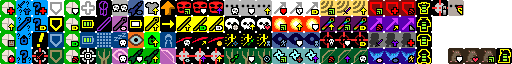
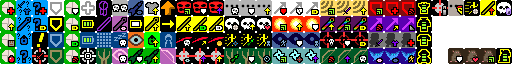
1.2: added additional talents for mage

Changed region(s): [[0.9062, 0.0, 1.0, 0.25]]

diff --git a/core/src/main/java/com/shatteredpixel/shatteredpixeldungeon/items/wands/Wand.java b/core/src/main/java/com/shatteredpixel/shatteredpixeldungeon/items/wands/Wand.java
@@ -23,36 +23,33 @@ package com.shatteredpixel.shatteredpixeldungeon.items.wands;
 
 import com.shatteredpixel.shatteredpixeldungeon.Assets;
 import com.shatteredpixel.shatteredpixeldungeon.Badges;
-import com.shatteredpixel.shatteredpixeldungeon.Dungeon;
 import com.shatteredpixel.shatteredpixeldungeon.actors.Actor;
 import com.shatteredpixel.shatteredpixeldungeon.actors.Char;
-import com.shatteredpixel.shatteredpixeldungeon.actors.buffs.Barrier;
-import com.shatteredpixel.shatteredpixeldungeon.actors.buffs.Buff;
-import com.shatteredpixel.shatteredpixeldungeon.actors.buffs.Invisibility;
-import com.shatteredpixel.shatteredpixeldungeon.actors.buffs.LockedFloor;
-import com.shatteredpixel.shatteredpixeldungeon.actors.buffs.MagicImmune;
-import com.shatteredpixel.shatteredpixeldungeon.actors.buffs.Recharging;
-import com.shatteredpixel.shatteredpixeldungeon.actors.buffs.ScrollEmpower;
-import com.shatteredpixel.shatteredpixeldungeon.actors.buffs.SoulMark;
+import com.shatteredpixel.shatteredpixeldungeon.actors.buffs.*;
 import com.shatteredpixel.shatteredpixeldungeon.actors.hero.Hero;
 import com.shatteredpixel.shatteredpixeldungeon.actors.hero.HeroSubClass;
 import com.shatteredpixel.shatteredpixeldungeon.actors.hero.Talent;
 import com.shatteredpixel.shatteredpixeldungeon.actors.hero.abilities.mage.WildMagic;
 import com.shatteredpixel.shatteredpixeldungeon.effects.MagicMissile;
+import com.shatteredpixel.shatteredpixeldungeon.effects.Speck;
+import com.shatteredpixel.shatteredpixeldungeon.effects.particles.ShadowParticle;
 import com.shatteredpixel.shatteredpixeldungeon.items.Item;
 import com.shatteredpixel.shatteredpixeldungeon.items.artifacts.TalismanOfForesight;
 import com.shatteredpixel.shatteredpixeldungeon.items.bags.Bag;
 import com.shatteredpixel.shatteredpixeldungeon.items.bags.MagicalHolster;
 import com.shatteredpixel.shatteredpixeldungeon.items.rings.RingOfEnergy;
 import com.shatteredpixel.shatteredpixeldungeon.items.scrolls.ScrollOfRecharging;
+import com.shatteredpixel.shatteredpixeldungeon.items.spells.CurseInfusion;
 import com.shatteredpixel.shatteredpixeldungeon.items.weapon.melee.MagesStaff;
 import com.shatteredpixel.shatteredpixeldungeon.mechanics.Ballistica;
 import com.shatteredpixel.shatteredpixeldungeon.messages.Messages;
 import com.shatteredpixel.shatteredpixeldungeon.scenes.CellSelector;
 import com.shatteredpixel.shatteredpixeldungeon.scenes.GameScene;
+import com.shatteredpixel.shatteredpixeldungeon.sprites.CharSprite;
 import com.shatteredpixel.shatteredpixeldungeon.sprites.ItemSprite;
 import com.shatteredpixel.shatteredpixeldungeon.sprites.ItemSpriteSheet;
 import com.shatteredpixel.shatteredpixeldungeon.ui.QuickSlotButton;
+import com.shatteredpixel.shatteredpixeldungeon.ui.TargetHealthIndicator;
 import com.shatteredpixel.shatteredpixeldungeon.utils.GLog;
 import com.watabou.noosa.audio.Sample;
 import com.watabou.utils.Bundle;
@@ -61,6 +58,8 @@ import com.watabou.utils.PointF;
 import com.watabou.utils.Random;
 
 import java.util.ArrayList;
+
+import static com.shatteredpixel.shatteredpixeldungeon.Dungeon.hero;
 
 public abstract class Wand extends Item {
 
@@ -184,13 +183,31 @@ public abstract class Wand extends Item {
 
 	//TODO Consider externalizing char awareness buff
 	protected static void wandProc(Char target, int wandLevel, int chargesUsed){
-		if (Dungeon.hero.hasTalent(Talent.ARCANE_VISION)) {
-			int dur = 5 + 5*Dungeon.hero.pointsInTalent(Talent.ARCANE_VISION);
-			Buff.append(Dungeon.hero, TalismanOfForesight.CharAwareness.class, dur).charID = target.id();
+		if (hero.hasTalent(Talent.ARCANE_VISION)) {
+			int dur = 5 + 5* hero.pointsInTalent(Talent.ARCANE_VISION);
+			Buff.append(hero, TalismanOfForesight.CharAwareness.class, dur).charID = target.id();
 		}
 
-		if (target != Dungeon.hero &&
-				Dungeon.hero.subClass == HeroSubClass.WARLOCK &&
+		if (hero.hasTalent(Talent.BANISHED) && hero.buff(Talent.BanishedCooldown.class) == null){
+			if (!target.properties().contains(Char.Property.BOSS)
+					&& !target.properties().contains(Char.Property.MINIBOSS)
+					&& target.buff(SoulMark.class) != null){
+				target.sprite.emitter().burst(ShadowParticle.UP, 50);
+				Buff.affect(hero, Hunger.class)
+						.affectHunger( target.HP*hero.pointsInTalent(Talent.SOUL_EATER)/6f);
+				hero.HP = (int) Math.ceil(Math.min(hero.HT, hero.HP + target.HP * 0.2f));
+				hero.sprite.emitter().burst(Speck.factory(Speck.HEALING), 1);
+				Sample.INSTANCE.play(Assets.Sounds.DEATH, 1f, 0.75f);
+				target.die(new CurseInfusion());
+				target.sprite.showStatus(CharSprite.NEGATIVE, Messages.get(Wand.class, "banished"));
+				TargetHealthIndicator.instance.target(null);
+				Talent.Cooldown.affectHero(Talent.BanishedCooldown.class);
+				return;
+			}
+		}
+
+		if (target != hero &&
+				hero.subClass == HeroSubClass.WARLOCK &&
 				//standard 1 - 0.92^x chance, plus 7%. Starts at 15%
 				Random.Float() > (Math.pow(0.92f, (wandLevel*chargesUsed)+1) - 0.07f)){
 			SoulMark.prolong(target, SoulMark.class, SoulMark.DURATION + wandLevel);
@@ -251,7 +268,7 @@ public abstract class Wand extends Item {
 			desc += "\n\n" + Messages.get(Wand.class, "not_cursed");
 		}
 
-		if (Dungeon.hero.subClass == HeroSubClass.BATTLEMAGE){
+		if (hero.subClass == HeroSubClass.BATTLEMAGE){
 			desc += "\n\n" + Messages.get(this, "bmage_desc");
 		}
 
@@ -378,10 +395,10 @@ public abstract class Wand extends Item {
 
 	protected void wandUsed() {
 		if (!isIdentified()) {
-			float uses = Math.min( availableUsesToID, Talent.itemIDSpeedFactor(Dungeon.hero, this) );
+			float uses = Math.min( availableUsesToID, Talent.itemIDSpeedFactor(hero, this) );
 			availableUsesToID -= uses;
 			usesLeftToID -= uses;
-			if (usesLeftToID <= 0 || Dungeon.hero.pointsInTalent(Talent.SCHOLARS_INTUITION) == 2) {
+			if (usesLeftToID <= 0 || hero.pointsInTalent(Talent.SCHOLARS_INTUITION) == 2) {
 				identify();
 				GLog.p( Messages.get(Wand.class, "identify") );
 				Badges.validateItemLevelAquired( this );
@@ -407,14 +424,14 @@ public abstract class Wand extends Item {
 
 		//if the wand is owned by the hero, but not in their inventory, it must be in the staff
 		if (charger != null
-				&& charger.target == Dungeon.hero
-				&& !Dungeon.hero.belongings.contains(this)) {
-			if (curCharges == 0 && Dungeon.hero.hasTalent(Talent.BACKUP_BARRIER)) {
+				&& charger.target == hero
+				&& !hero.belongings.contains(this)) {
+			if (curCharges == 0 && hero.hasTalent(Talent.BACKUP_BARRIER)) {
 				//grants 3/5 shielding
-				Buff.affect(Dungeon.hero, Barrier.class).setShield(1 + 2 * Dungeon.hero.pointsInTalent(Talent.BACKUP_BARRIER));
+				Buff.affect(hero, Barrier.class).setShield(1 + 2 * hero.pointsInTalent(Talent.BACKUP_BARRIER));
 			}
-			if (Dungeon.hero.hasTalent(Talent.EMPOWERED_STRIKE)){
-				Buff.prolong(Dungeon.hero, Talent.EmpoweredStrikeTracker.class, 10f);
+			if (hero.hasTalent(Talent.EMPOWERED_STRIKE)){
+				Buff.prolong(hero, Talent.EmpoweredStrikeTracker.class, 10f);
 			}
 		}
 

diff --git a/core/src/main/java/com/shatteredpixel/shatteredpixeldungeon/actors/hero/Talent.java b/core/src/main/java/com/shatteredpixel/shatteredpixeldungeon/actors/hero/Talent.java
@@ -62,6 +62,9 @@ import java.util.ArrayList;
 import java.util.Collections;
 import java.util.LinkedHashMap;
 
+import static com.shatteredpixel.shatteredpixeldungeon.Dungeon.hero;
+import static java.lang.Math.max;
+
 public enum Talent {
 
 	//Warrior T1
@@ -88,9 +91,9 @@ public enum Talent {
 	//Mage T3
 	EMPOWERING_SCROLLS(41, 3), ALLY_WARP(42, 3),
 	//Battlemage T3
-	EMPOWERED_STRIKE(43, 3), MYSTICAL_CHARGE(44, 3), EXCESS_CHARGE(45, 3),
+	EMPOWERED_STRIKE(43, 3), MYSTICAL_CHARGE(44, 3), EXCESS_CHARGE(45, 3), PYROMANIAC(31, 3),
 	//Warlock T3
-	SOUL_EATER(46, 3), SOUL_SIPHON(47, 3), NECROMANCERS_MINIONS(48, 3),
+	SOUL_EATER(46, 3), SOUL_SIPHON(47, 3), NECROMANCERS_MINIONS(48, 3), BANISHED(32, 3),
 	//Elemental Blast T4
 	BLAST_RADIUS(49, 4), ELEMENTAL_POWER(50, 4), REACTIVE_BARRIER(51, 4),
 	//Wild Magic T4
@@ -107,7 +110,7 @@ public enum Talent {
 	//Assassin T3
 	ENHANCED_LETHALITY(75, 3), ASSASSINS_REACH(76, 3), BOUNTY_HUNTER(77, 3),
 	//Freerunner T3
-	EVASIVE_ARMOR(78, 3), PROJECTILE_MOMENTUM(79, 3), SPEEDY_STEALTH(80, 3),
+	EVASIVE_ARMOR(78, 3), PROJECTILE_MOMENTUM(79, 3), SPEEDY_STEALTH(80, 3), FREERUNNER_EATING(30, 3),
 	//Smoke Bomb T4
 	HASTY_RETREAT(81, 4), BODY_REPLACEMENT(82, 4), SHADOW_STEP(83, 4),
 	//Death Mark T4
@@ -152,7 +155,7 @@ public enum Talent {
 	public static class RejuvenatingStepsCooldown extends FlavourBuff{
 		public int icon() { return BuffIndicator.TIME; }
 		public void tintIcon(Image icon) { icon.hardlight(0f, 0.35f, 0.15f); }
-		public float iconFadePercent() { return Math.max(0, visualcooldown() / (15 - 5*Dungeon.hero.pointsInTalent(REJUVENATING_STEPS))); }
+		public float iconFadePercent() { return Math.max(0, visualcooldown() / (15 - 5* hero.pointsInTalent(REJUVENATING_STEPS))); }
 		public String toString() { return Messages.get(this, "name"); }
 		public String desc() { return Messages.get(this, "desc", dispTurns(visualcooldown())); }
 	};
@@ -166,6 +169,35 @@ public enum Talent {
 	};
 	public static class SpiritBladesTracker extends FlavourBuff{};
 	public static class AutoReloadBuff extends FlavourBuff{};
+	public static abstract class Cooldown extends FlavourBuff {
+		public static <T extends Cooldown> void affectHero(Class<T> cls) {
+			if(cls == Cooldown.class) return;
+			T buff = Buff.affect(hero, cls);
+			buff.spend( buff.duration() );
+		}
+		public static <T extends Cooldown> void affectHero(Class<T> cls, float extraDuration) {
+			if(cls == Cooldown.class) return;
+			T buff = Buff.affect(hero, cls);
+			buff.spend( buff.duration() + extraDuration );
+		}
+		public abstract float duration();
+		public float iconFadePercent() { return max(0, visualcooldown() / duration()); }
+		public String toString() { return Messages.get(this, "name"); }
+		public String desc() { return Messages.get(this, "desc", dispTurns(visualcooldown())); }
+	}
+	public static class BanishedCooldown extends Cooldown {
+		public float duration() {
+			switch (hero.pointsInTalent(BANISHED)){
+				case 1: default:
+					return 270;
+				case 2:
+					return 240;
+				case 3:
+					return 210;
+			}
+		}
+		public int icon() { return BuffIndicator.CORRUPT; }
+	};
 
 	int icon;
 	int maxPoints;
@@ -187,7 +219,7 @@ public enum Talent {
 			if (Ratmogrify.useRatroicEnergy){
 				return 127;
 			}
-			HeroClass cls = Dungeon.hero != null ? Dungeon.hero.heroClass : GamesInProgress.selectedClass;
+			HeroClass cls = hero != null ? hero.heroClass : GamesInProgress.selectedClass;
 			switch (cls){
 //				case WARRIOR: default:
 //					return 26;
@@ -384,7 +416,7 @@ public enum Talent {
 			MagesStaff staff = hero.belongings.getItem(MagesStaff.class);
 			if (staff != null){
 				staff.gainCharge(hero.pointsInTalent(ENERGIZING_UPGRADE)/2f, true);
-				ScrollOfRecharging.charge( Dungeon.hero );
+				ScrollOfRecharging.charge(Dungeon.hero);
 				SpellSprite.show( hero, SpellSprite.CHARGE );
 			}
 		}
@@ -392,7 +424,7 @@ public enum Talent {
 			CloakOfShadows cloak = hero.belongings.getItem(CloakOfShadows.class);
 			if (cloak != null){
 				cloak.overCharge(hero.pointsInTalent(MYSTICAL_UPGRADE)/2f);
-				ScrollOfRecharging.charge( Dungeon.hero );
+				ScrollOfRecharging.charge(Dungeon.hero);
 				SpellSprite.show( hero, SpellSprite.CHARGE );
 			}
 		}
@@ -575,13 +607,13 @@ public enum Talent {
 				Collections.addAll(tierTalents, CLEAVE, LETHAL_MOMENTUM, ENHANCED_COMBO, SKILL);
 				break;
 			case BATTLEMAGE:
-				Collections.addAll(tierTalents, EMPOWERED_STRIKE, MYSTICAL_CHARGE, EXCESS_CHARGE);
+				Collections.addAll(tierTalents, EMPOWERED_STRIKE, MYSTICAL_CHARGE, EXCESS_CHARGE, PYROMANIAC);
 				break;
 			case WARLOCK:
-				Collections.addAll(tierTalents, SOUL_EATER, SOUL_SIPHON, NECROMANCERS_MINIONS);
+				Collections.addAll(tierTalents, SOUL_EATER, SOUL_SIPHON, NECROMANCERS_MINIONS, BANISHED);
 				break;
 			case FREERUNNER:
-				Collections.addAll(tierTalents, EVASIVE_ARMOR, PROJECTILE_MOMENTUM, SPEEDY_STEALTH);
+				Collections.addAll(tierTalents, EVASIVE_ARMOR, PROJECTILE_MOMENTUM, SPEEDY_STEALTH, FREERUNNER_EATING);
 				break;
 			case SNIPER:
 				Collections.addAll(tierTalents, FARSIGHT, SHARED_ENCHANTMENT, SHARED_UPGRADES, AUTO_RELOAD);

diff --git a/core/src/main/java/com/shatteredpixel/shatteredpixeldungeon/items/weapon/enchantments/Blazing.java b/core/src/main/java/com/shatteredpixel/shatteredpixeldungeon/items/weapon/enchantments/Blazing.java
@@ -25,6 +25,7 @@ import com.shatteredpixel.shatteredpixeldungeon.Dungeon;
 import com.shatteredpixel.shatteredpixeldungeon.actors.Char;
 import com.shatteredpixel.shatteredpixeldungeon.actors.buffs.Buff;
 import com.shatteredpixel.shatteredpixeldungeon.actors.buffs.Burning;
+import com.shatteredpixel.shatteredpixeldungeon.actors.hero.Talent;
 import com.shatteredpixel.shatteredpixeldungeon.effects.particles.FlameParticle;
 import com.shatteredpixel.shatteredpixeldungeon.items.weapon.Weapon;
 import com.shatteredpixel.shatteredpixeldungeon.sprites.ItemSprite;
@@ -47,7 +48,7 @@ public class Blazing extends Weapon.Enchantment {
 			
 			if (defender.buff(Burning.class) != null){
 				Buff.affect(defender, Burning.class).reignite(defender, 8f);
-				int burnDamage = Random.NormalIntRange( 1, 3 + Dungeon.depth/4 );
+				int burnDamage = (int) (Random.NormalIntRange( 1, 3 + Dungeon.depth/4 ) * (1 + Dungeon.hero.pointsInTalent(Talent.PYROMANIAC)*0.175f));
 				defender.damage( Math.round(burnDamage * 0.67f), this );
 			} else {
 				Buff.affect(defender, Burning.class).reignite(defender, 8f);

diff --git a/core/src/main/java/com/shatteredpixel/shatteredpixeldungeon/items/wands/WandOfFireblast.java b/core/src/main/java/com/shatteredpixel/shatteredpixeldungeon/items/wands/WandOfFireblast.java
@@ -31,6 +31,7 @@ import com.shatteredpixel.shatteredpixeldungeon.actors.buffs.Buff;
 import com.shatteredpixel.shatteredpixeldungeon.actors.buffs.Burning;
 import com.shatteredpixel.shatteredpixeldungeon.actors.buffs.Cripple;
 import com.shatteredpixel.shatteredpixeldungeon.actors.buffs.Paralysis;
+import com.shatteredpixel.shatteredpixeldungeon.actors.hero.Talent;
 import com.shatteredpixel.shatteredpixeldungeon.actors.hero.abilities.mage.WildMagic;
 import com.shatteredpixel.shatteredpixeldungeon.effects.MagicMissile;
 import com.shatteredpixel.shatteredpixeldungeon.items.weapon.enchantments.Blazing;
@@ -60,12 +61,12 @@ public class WandOfFireblast extends DamageWand {
 
 	//1x/2x/3x damage
 	public int min(int lvl){
-		return (1+lvl) * chargesPerCast();
+		return (int) ((1+lvl) * chargesPerCast() * (1 + Dungeon.hero.pointsInTalent(Talent.PYROMANIAC)*0.175f));
 	}
 
 	//1x/2x/3x damage
 	public int max(int lvl){
-		return (6+2*lvl) * chargesPerCast();
+		return (int) ((6+2*lvl) * chargesPerCast() * (1 + Dungeon.hero.pointsInTalent(Talent.PYROMANIAC)*0.175f));
 	}
 
 	ConeAOE cone;

diff --git a/core/src/main/java/com/shatteredpixel/shatteredpixeldungeon/actors/buffs/Burning.java b/core/src/main/java/com/shatteredpixel/shatteredpixeldungeon/actors/buffs/Burning.java
@@ -27,6 +27,7 @@ import com.shatteredpixel.shatteredpixeldungeon.actors.Char;
 import com.shatteredpixel.shatteredpixeldungeon.actors.blobs.Blob;
 import com.shatteredpixel.shatteredpixeldungeon.actors.blobs.Fire;
 import com.shatteredpixel.shatteredpixeldungeon.actors.hero.Hero;
+import com.shatteredpixel.shatteredpixeldungeon.actors.hero.Talent;
 import com.shatteredpixel.shatteredpixeldungeon.actors.mobs.Thief;
 import com.shatteredpixel.shatteredpixeldungeon.effects.particles.ElmoParticle;
 import com.shatteredpixel.shatteredpixeldungeon.items.Heap;
@@ -88,8 +89,9 @@ public class Burning extends Buff implements Hero.Doom {
 	public boolean act() {
 		
 		if (target.isAlive() && !target.isImmune(getClass())) {
-			
-			int damage = Random.NormalIntRange( 1, 3 + Dungeon.depth/4 );
+
+			int damage = Random.NormalIntRange( 1, 3 + Dungeon.depth /4 );
+			damage *= (1 + Dungeon.hero.pointsInTalent(Talent.PYROMANIAC)*0.175f);
 			Buff.detach( target, Chill.class);
 
 			if (target instanceof Hero && target.buff(TimekeepersHourglass.timeStasis.class) == null) {

diff --git a/core/src/main/java/com/shatteredpixel/shatteredpixeldungeon/actors/hero/Hero.java b/core/src/main/java/com/shatteredpixel/shatteredpixeldungeon/actors/hero/Hero.java
@@ -434,6 +434,11 @@ public class Hero extends Char {
 			evasion = belongings.armor().evasionFactor(this, evasion);
 		}
 
+		if (pointsInTalent(Talent.FREERUNNER_EATING) > 0){
+			int hunger = buff(Hunger.class).hunger();
+			evasion *= 1f + 0.175f*pointsInTalent(Talent.ROGUES_FORESIGHT)*((Hunger.STARVING - hunger)/Hunger.STARVING);
+		}
+
 		return Math.round(evasion);
 	}
 
@@ -506,6 +511,10 @@ public class Hero extends Char {
 			speed *= momentum.speedMultiplier();
 		} else {
 			((HeroSprite)sprite).sprint( 1f );
+		}
+		if (pointsInTalent(Talent.FREERUNNER_EATING) > 0){
+			int hunger = buff(Hunger.class).hunger();
+			speed *= 1f + 0.175f*pointsInTalent(Talent.ROGUES_FORESIGHT)*((Hunger.STARVING - hunger)/Hunger.STARVING);
 		}
 
 		NaturesPower.naturesPowerTracker natStrength = buff(NaturesPower.naturesPowerTracker.class);
